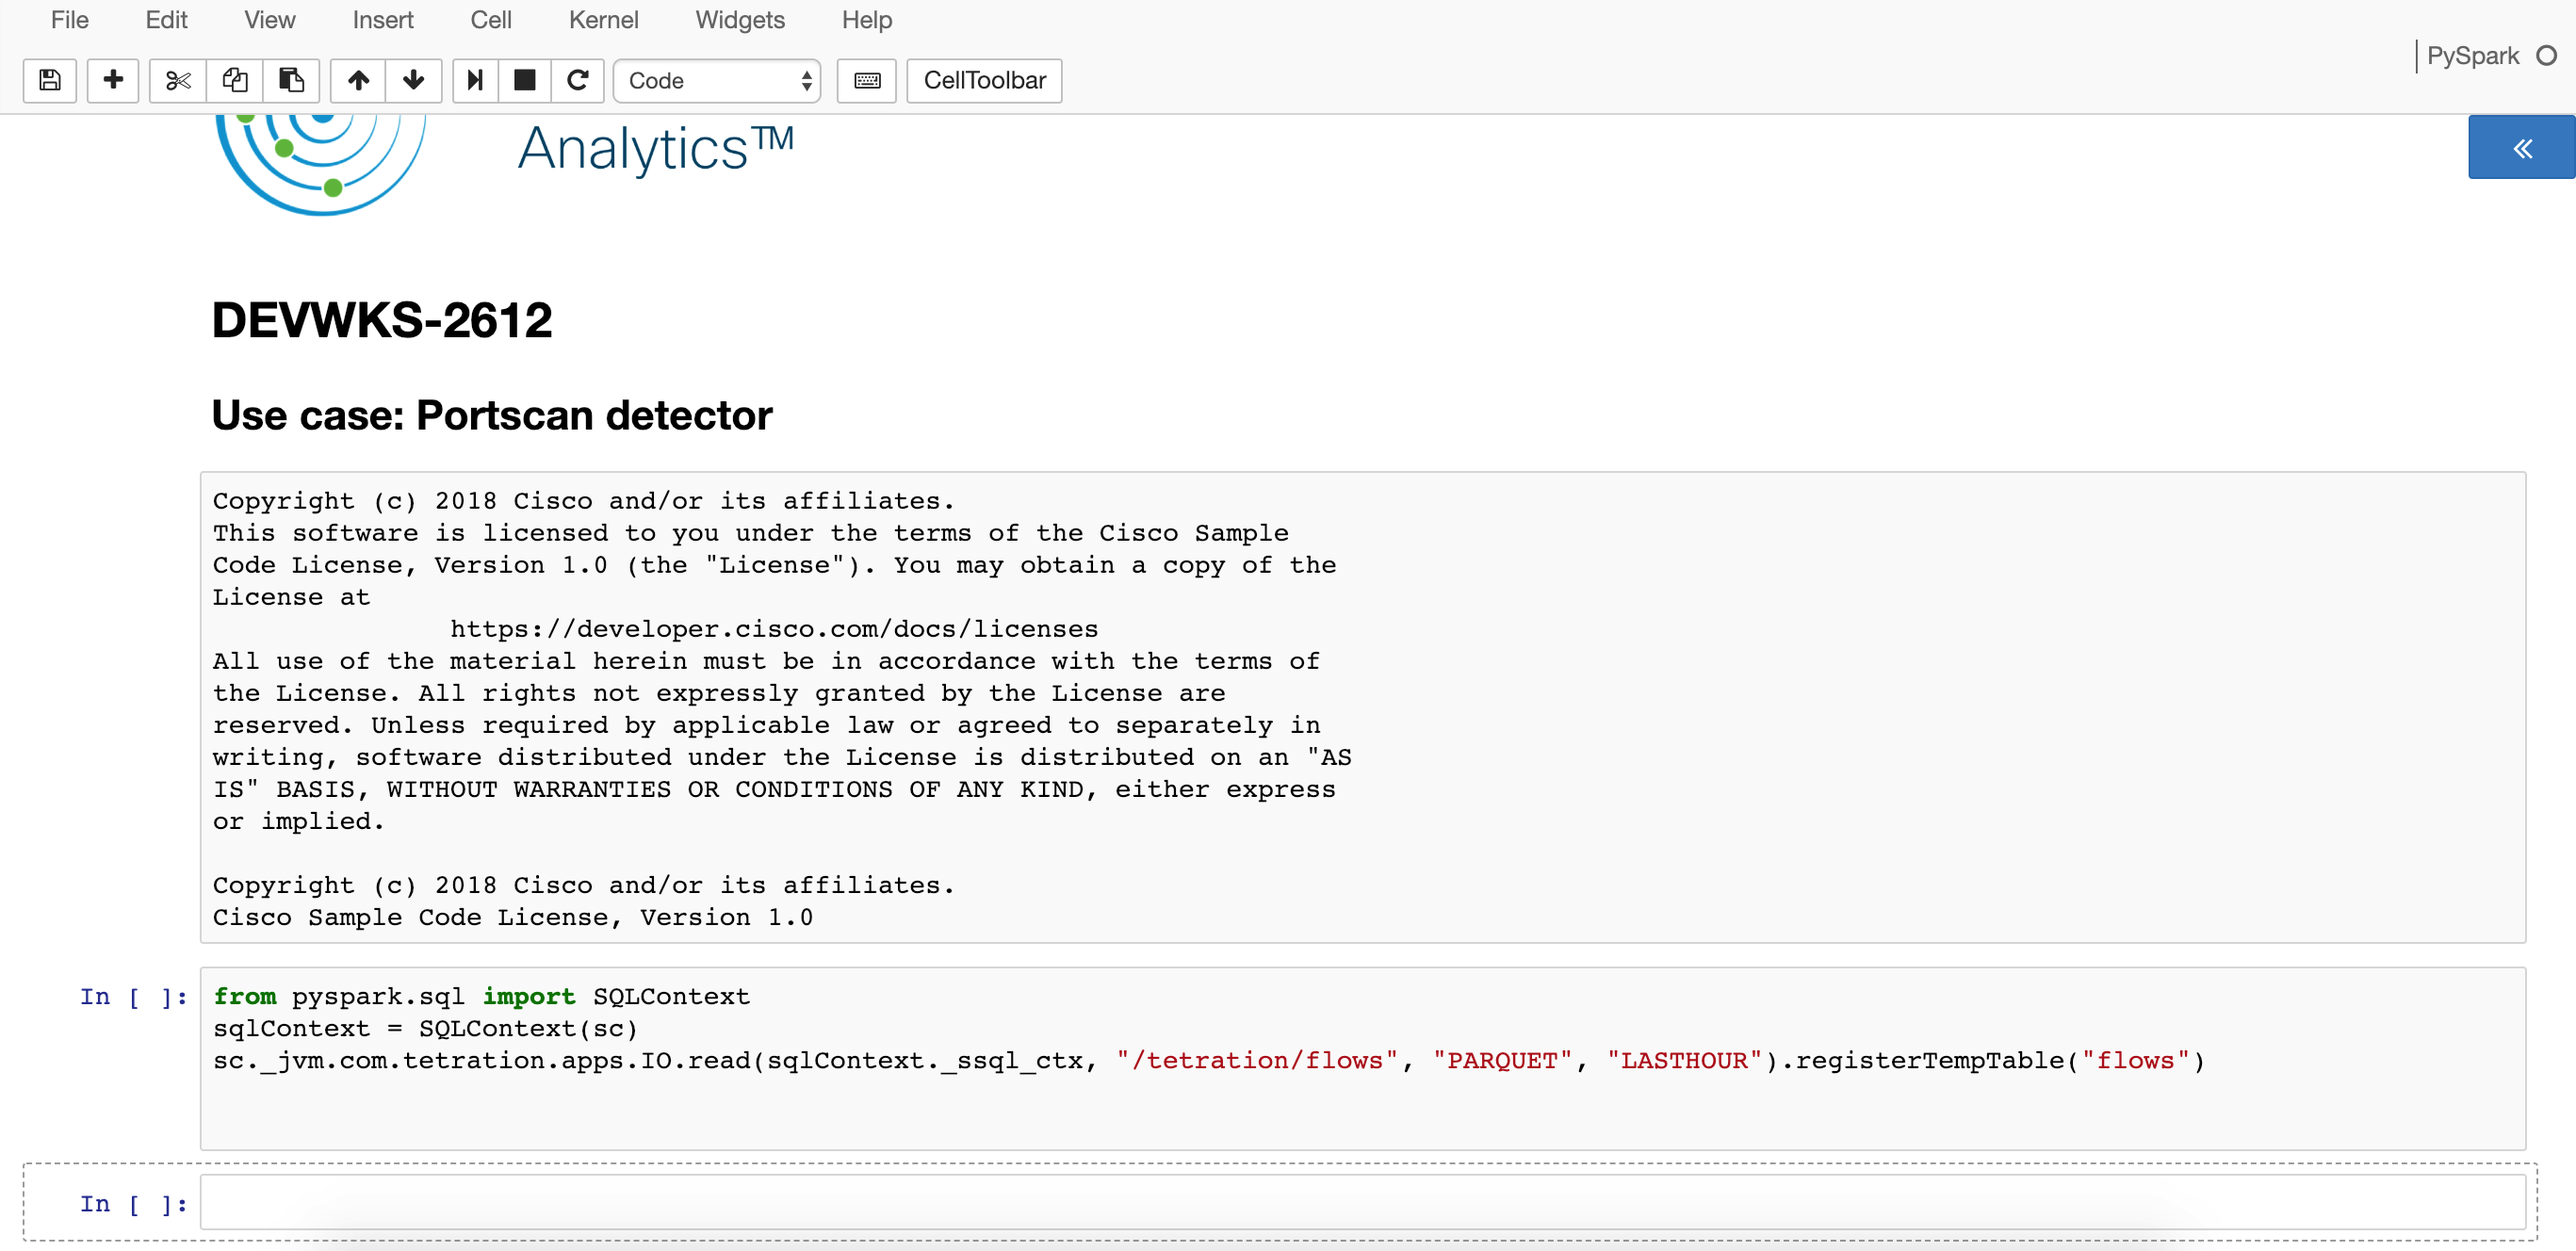
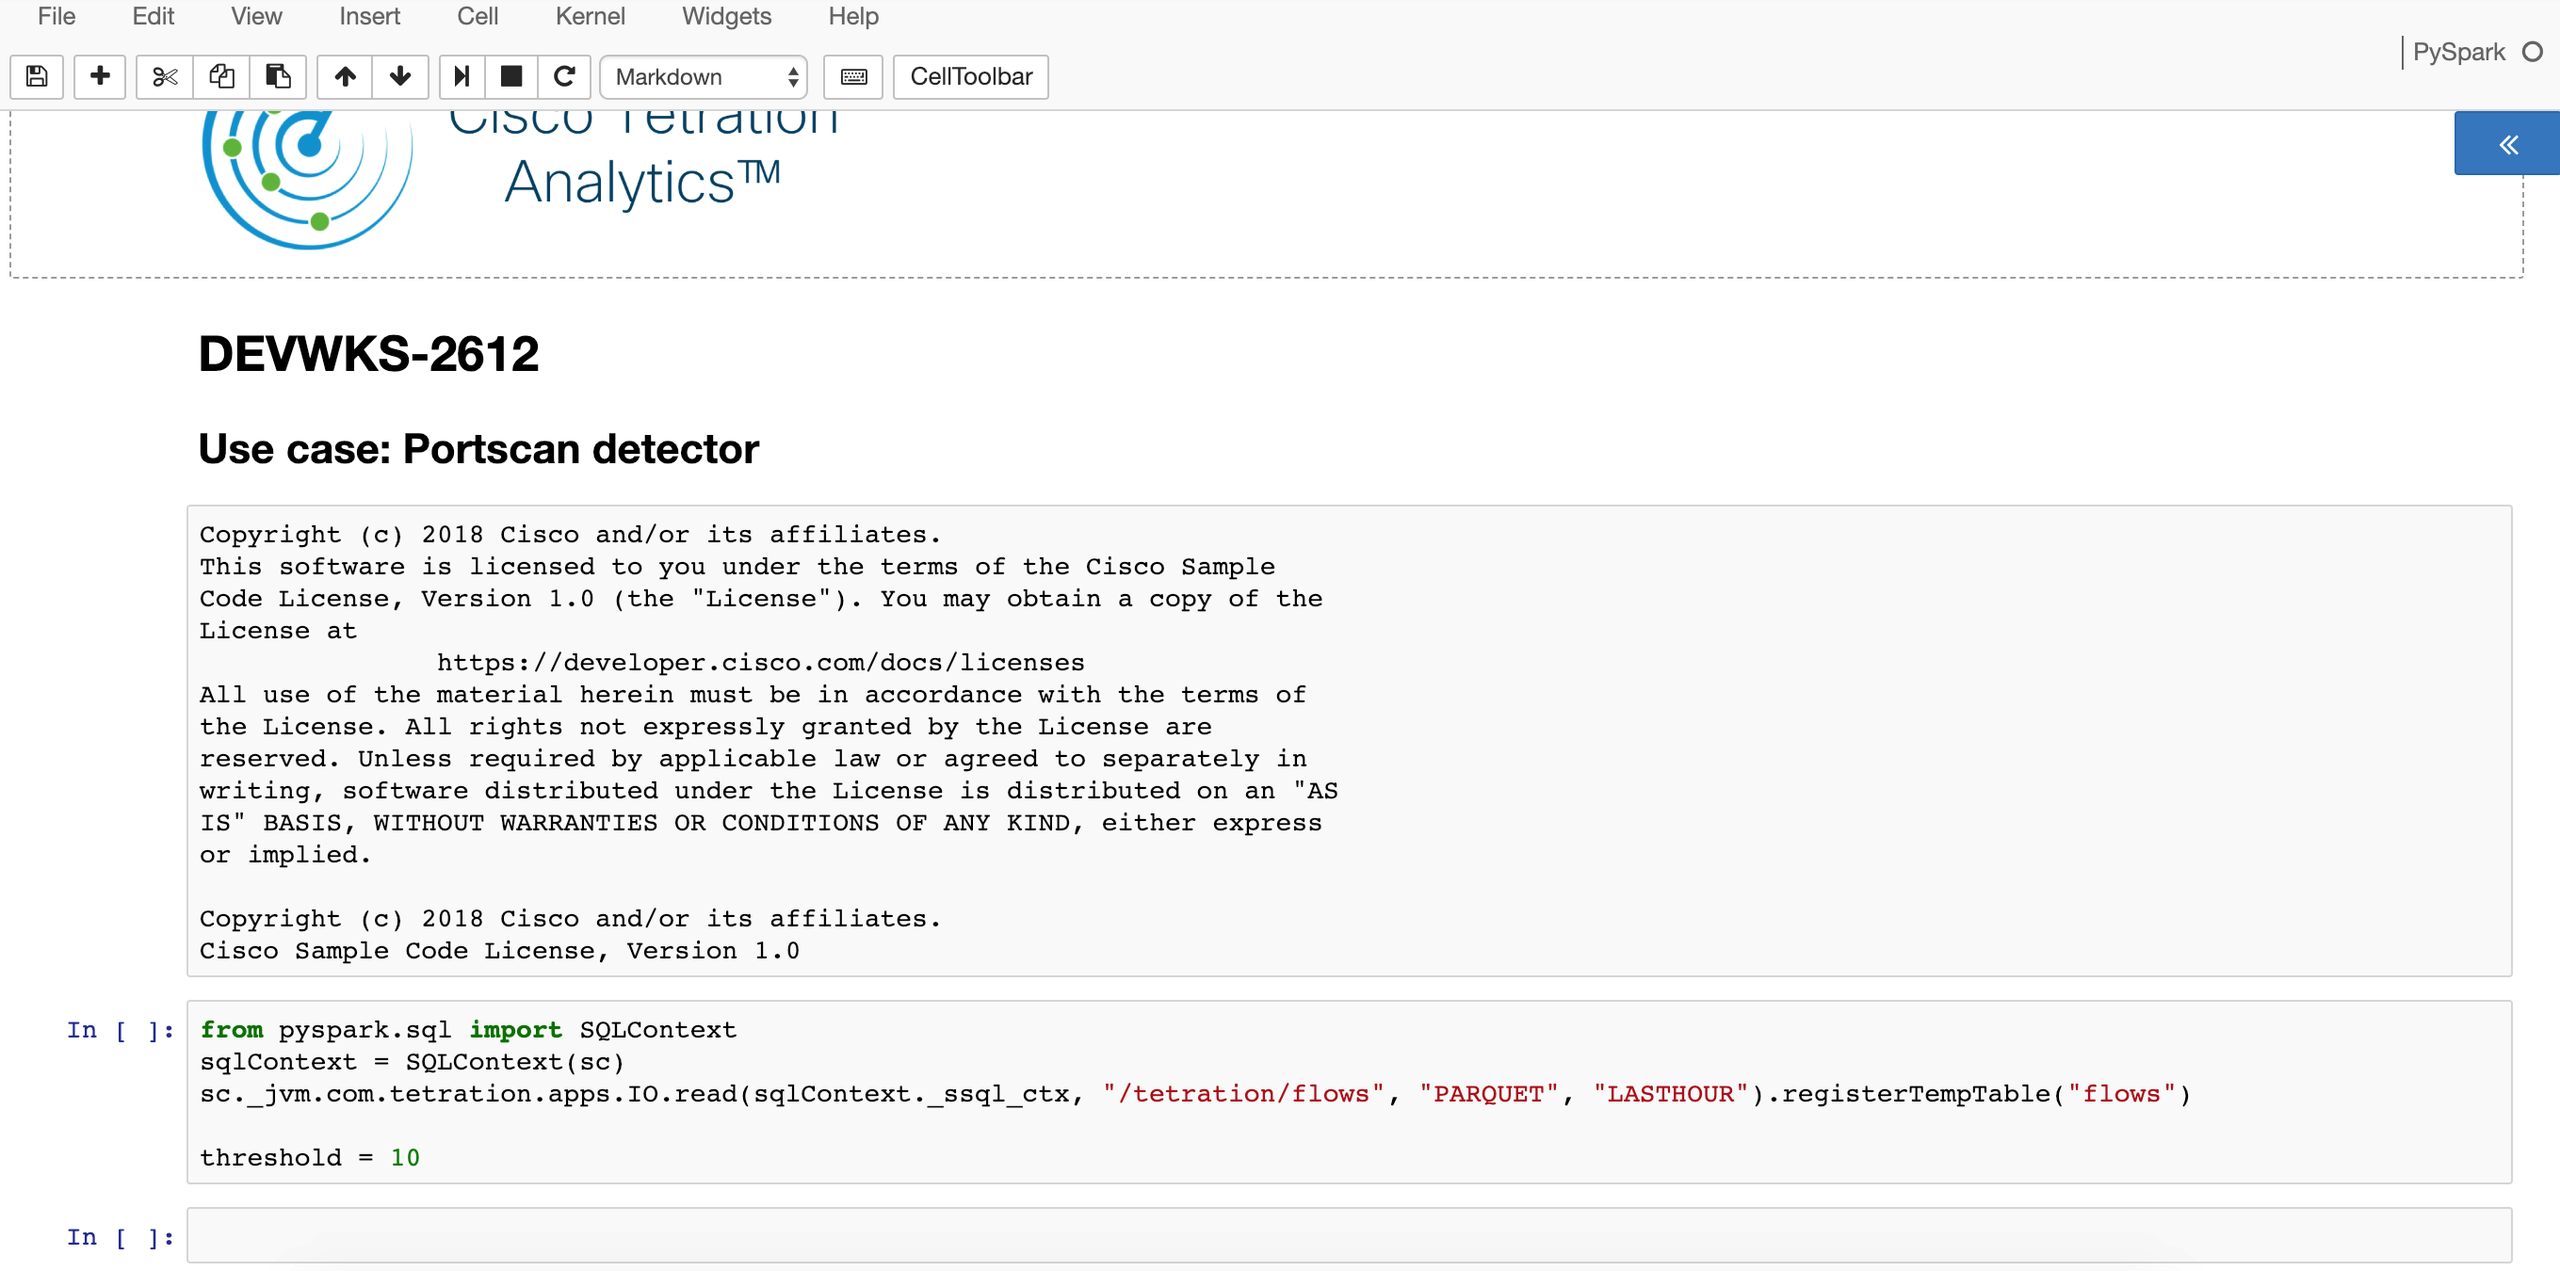
Review

diff --git a/README.md b/README.md
@@ -114,7 +114,7 @@ This first lab will make you do some basic operation to perceive Jupyter noteboo
 
 1. Using left navigation pane in Tetration UI, go to Data Platform --> User Apps.  
  ![Jupyter toolbar](images/toolbar.png)  
- This is your UserApps repository, and examples are provided for your reference:
+ This is your UserApps repository, with lab apps and examples provided for your reference:
  ![Jupyter toolbar](images/screenshot_2727.png) 
 2. Create a New App in PySpark that you can name "Jupyter basics"
 3. You will enter in your newly created UserApp. Let's have a look at the toolbar and menus:  
@@ -160,38 +160,22 @@ Did you get it? Notice the value between [ ]. You can continue if you want:
 ## Query the datalake
 ### Accessing datalake
 
-1. Create a New App in PySpark that you can name "Datalake queries"
-2. In the **first cell**, copy-past this HTML code:  
-
- ```html
-<img src="https://ibin.co/3hXAuMuHhEeK.png" alt="Cisco Systems" width="200" height="600"
-style="float:left;width:372px;height:118px;">
-```
- And change the cell type from **Code** to **Markdown**. Run it.  
- Nice, isn't it?  
- You can add also markdown script to make your notebooks nicer:  
-
- ```markdown
-# This is my first UserApp
-It is **cool**!
-```
-
-3. **Add a new cell** for some code
-4. On the right side, unroll App Options using the blue chevron and look at usage example:  
+1. Open the User App named "Datalake queries"
+2. On the right side, unroll App Options using the blue chevron and look at usage example:  
  ![App Options](images/screenshot_2684.png)  
 To avoid managing a lot of Spark configuration, Tetration UserApps offers you some functions managing that for you.  
-5. Click on Read to read data from the Datalake.
-6. There are multiple lists of parameters you can use to query the datalake. Browse them, and stop on option 4 of 6:  
+3. Click on Read to read data from the Datalake.
+4. There are multiple lists of parameters you can use to query the datalake. Browse them, and stop on option 4 of 6:  
  ![App Options](images/screenshot_2687.png)  
-7. Click on **InputPath** and navigate to Tetration --> Flows (**DO NOT CLICK ON A DATE**). Then click on **Dismiss** (on the very bottom).
-8. Click on **Copy headers** and paste in the **last empty cell**. This code gives you access to Spark (Spark Context) in SparkSQL. Your cell should now look like this:
+5. Click on **InputPath** and navigate to Tetration --> Flows (**DO NOT CLICK ON A DATE**). Then click on **Dismiss** (on the very bottom).
+6. Click on **Copy headers** and paste in the **last empty cell**. This code gives you access to Spark (Spark Context) in SparkSQL. Your cell should now look like this:
 
  ```python
 from pyspark.sql import SQLContext
 sqlContext = SQLContext(sc)
 ```
 
-9. Click on **Copy API call** and past **in the same cell**. Hide the App Option panel with the chevrons. This code returns the Spark main object called RDD (Resilient Distributed Dataset). Add ```.registerTempTable("my_flows")``` in the end so your cell should now look like:  
+7. Click on **Copy API call** and past **in the same cell**. Hide the App Option panel with the chevrons. This code returns the Spark main object called RDD (Resilient Distributed Dataset). Add ```.registerTempTable("my_flows")``` in the end so your cell should now look like:  
 
  ```python
 from pyspark.sql import SQLContext
@@ -201,8 +185,8 @@ sc._jvm.com.tetration.apps.IO.read(sqlContext._ssql_ctx, "/tetration/flows", "PA
 
  This tells Spark to create a "SQL Table" (like an Excel sheet) called "my_flows" that we will manipulate in Spark SQL.
 
-10. **Run this cell**, that contains all the structures we will then manipulate multiple times. No output is expected.
-11. **Add a new cell**, put this code and run it:
+8. **Run this cell**, that contains all the structures we will then manipulate multiple times. No output is expected.
+9. **Add a new cell**, put this code and run it:
 
  ```python
 my_query = sqlContext.sql("SELECT * FROM my_flows LIMIT 2")
@@ -210,7 +194,7 @@ my_query = sqlContext.sql("SELECT * FROM my_flows LIMIT 2")
 
  Super fast isn't it? But Spark is lazy! It did nothing :-)
  
-12. Replace with this **in the same cell** and re-run the cell:  
+10. Replace with this **in the same cell** and re-run the cell:  
 
  ```python
 my_query = sqlContext.sql("SELECT * FROM my_flows LIMIT 2")
@@ -220,7 +204,7 @@ result
 
  Slower isn't it? Spark had to work and get the data as it asked the results in a Pandas object (Pandas Dataframe). Pandas is a data analysis library.
  
-13. **Add a new cell** (as we got data and don't want to recollect it), and run this code in it:  
+11. **Add a new cell** (as we got data and don't want to recollect it), and run this code in it:  
 
  ```python
 list(result)
@@ -234,29 +218,18 @@ Let's code a portscan detector. First, we have to specify how this can be define
 * Let's start with TCP (not UDP) port scan, as it can be easily extended.
 * We will work on source IP / destination IP / destination port tuples of failed connections.
 * A failed connection is 1 SYN Source --> Destination packet and 0 or 1 RST Destination --> Source packet.
-* There should be at least X such tuples (few are fine, it may happen).
+* There should be at least X such tuples (few are fine, it may happen), we will use 10.
 
 This can be enhanced (looking at destination port list, ...) but let's start this way.  
 
 1. Exit your previous UserApp by clicking on Data Platform --> User Apps in the left panel.
 2. Stop your previous App "Datalake queries".
-3. Click on Import App, navigate to Documents --> DEVWKS-2612 and select **h4_pyspark.Portscan detector.ipynb**
-4. There is a header to describe the UserApp. In the first code cell, the main imports are already done and Spark SQL table "flows" is created:
+3. Open the User App named "Portscan detector"
+4. There is a header to describe the UserApp. In the first code cell, the main imports are already done, Spark SQL table "flows" is created and threshold value for failed connections count is set:
   ![App Options](images/screenshot_2717.png)
-5. **In the cell already containing code**, add a variable called **threshold** with value **10**, at the end of the code cell to define the minimum of failed connection tuples.  
 
- <details>
- <summary>Answer code</summary>
- <pre>
-from pyspark.sql import SQLContext
-sqlContext = SQLContext(sc)
-sc._jvm.com.tetration.apps.IO.read(sqlContext._ssql_ctx, "/tetration/flows", "PARQUET", "LASTHOUR").registerTempTable("flows")
-threshold = 10
- </pre>
- </details>
-
-6. **Run this cell**, and **add a new cell**. We will build the correct code step by step, looking at intermediary results.
-7. First, we will look for all candidates observations. This is our main data. As we will use it multiple times, we will ask Spark to cache it. Otherwise, Spark will rebuild the complete query each time and start be looking at all data in HDFS... **Put this code in the empty cell and run it**:
+5. **Run this cell**, and **add a new cell**. We will build the correct code step by step, looking at intermediary results.
+6. First, we will look for all candidates observations. This is our main data. As we will use it multiple times, we will ask Spark to cache it. Otherwise, Spark will rebuild the complete query each time and start be looking at all data in HDFS... **Put this code in the empty cell and run it**:
 
  ```python
 # Searching for all refused connections observations
@@ -267,7 +240,7 @@ spark_port_scan_observations.toPandas()
 
  Only last line requires Spark to execute the query (returning a Pandas Dataframe).
 
-8. Now, we need to remove (potential) duplicate entries (ex: client trying to access multiple time to the same closed / firewalled service). **Add a new cell** and paste this code and run it:
+7. Now, we need to remove (potential) duplicate entries (ex: client trying to access multiple time to the same closed / firewalled service). **Add a new cell** and paste this code and run it:
 
  ```python
 # Removing duplicates (server trying multiple times to connect to a single port isn't a scan)
@@ -277,7 +250,7 @@ spark_port_scan_observations_cleaned.toPandas()
 
  You noticed that `.toPandas()` is always in the end: returning data centrally is the last step, we want Spark to do all the other operations in a distributed way.
 
-9. Then, we need to count all occurrences of same timestamp, source, destination tuple. **In the same cell**, replace the all code by this one and run it:
+8. Then, we need to count all occurrences of same timestamp, source, destination tuple. **In the same cell**, replace the all code by this one and run it:
 
  ```python
 # Removing duplicates (server trying multiple times to connect to a single port isn't a scan)
@@ -289,7 +262,7 @@ spark_scan_tuples_count = spark_scan_tuples.count()
 spark_scan_tuples_count.toPandas()
 ```
 
-10. Lastly, we only keep entries if count is above threshold. **In the same cell**, replace all the code by this one and run it:
+9. Lastly, we only keep entries if count is above threshold. **In the same cell**, replace all the code by this one and run it:
 
  ```python
 # Removing duplicates (server trying multiple times to connect to a single port isn't a scan)
@@ -316,16 +289,13 @@ This a contest :-)! Kafka topic will be monitored on your proctor's screen, the 
 
 1. Exit your previous UserApp by clicking on Data Platform --> User Apps in the left panel.
 2. Stop your previous App "Portscan detector".
-3. Click on **Import App**, navigate to Documents --> DEVWKS-2612 and select **h4_pyspark.Kafka contest.ipynb**
+3. Open the User App named "Kafka contest"
   ![App Options](images/screenshot_2719.png)
 4. **In the empty cell**, create a variable called **message** and store in it a **personalized message** to identify you as the winner.  
 
- <details>
- <summary>Answer code</summary>
- <pre>
+ ```python
 message = "And the winner is XXXXX!"
- </pre>
- </details>
+```
 
 5. Unroll App Options, Usage Example, look for **Datataps** API.
 6. In the Usage Example, click on **DefaultDataTap**, select **Alerts**, then click on **Dismiss**. Alerts is automatically mapped to the proper Kafka topic (this is a unique identifier per tenant).
